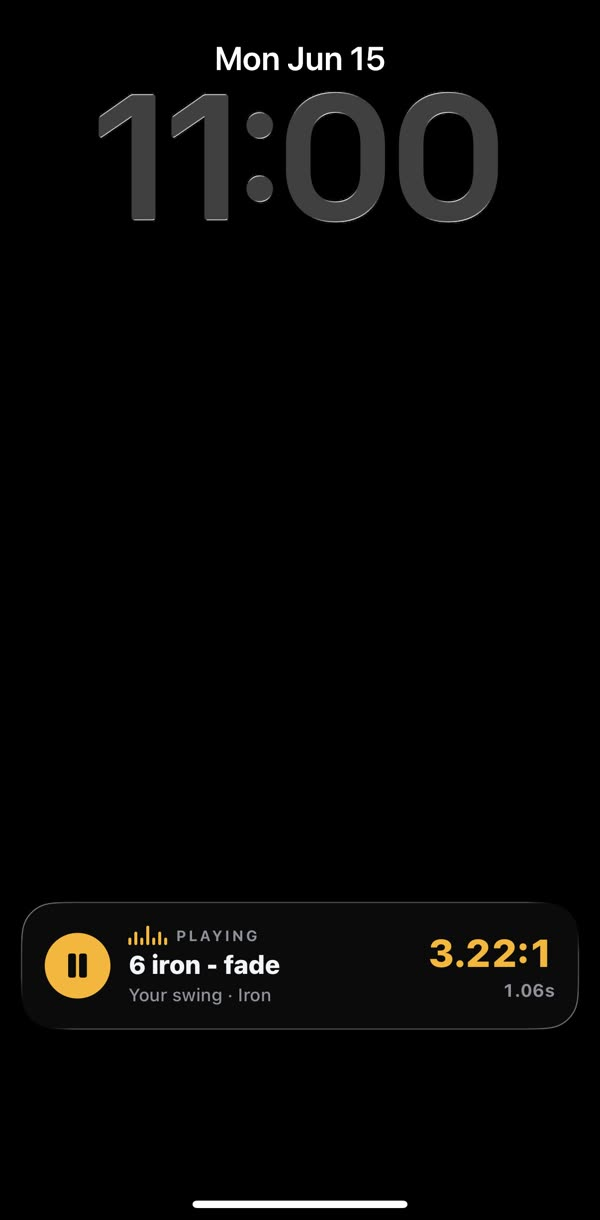
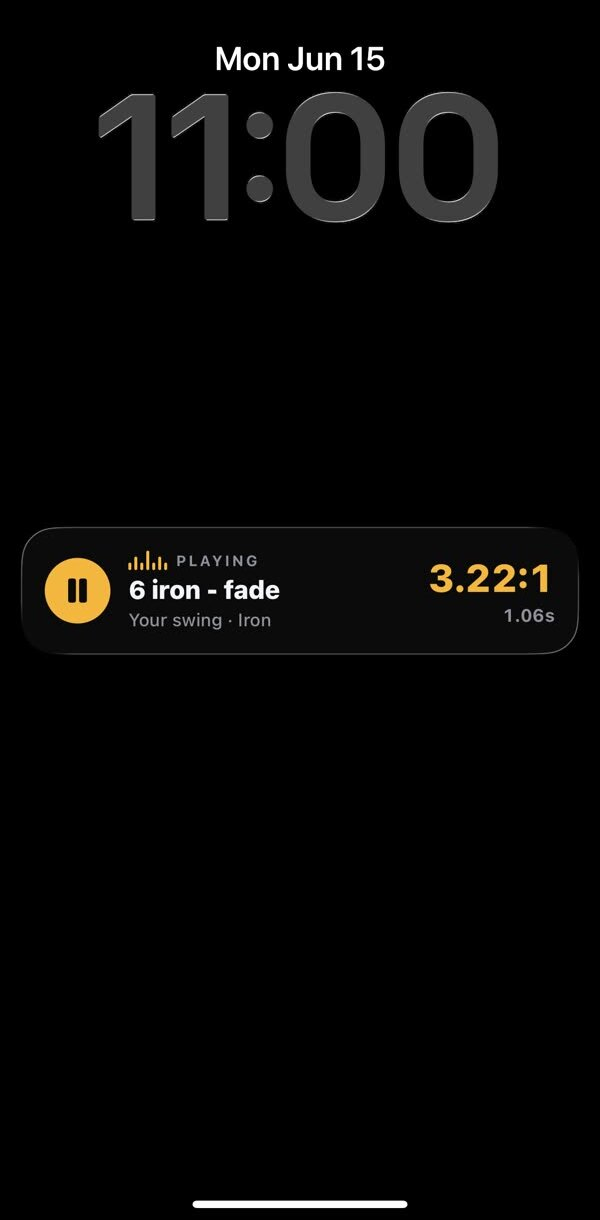
fix(elite-tempo): static CSS sonar rings, widget mid-screen, three-beat hero
- Rebuild sonar rings as pure static CSS (drop framer-motion). The animated
  version failed to paint on mobile Safari with Reduce Motion; rings now render
  on every device as concentric gold circles.
- Move the Live Activity card up to mid-screen in lock-activity.jpg so the buds
  can sit near the middle of the phone instead of the bottom.
- Reposition buds to straddle the centered widget.
- Hero subtext: three-beat "Copy the tempo of the greats. Capture your best
  tempo and routine. Repeat it when it matters most."

diff --git a/app/elite-tempo/BudFlank.tsx b/app/elite-tempo/BudFlank.tsx
@@ -1,19 +1,20 @@
-"use client";
-
-import { motion, useReducedMotion } from "framer-motion";
-
 const ACCENT = "#FFB300";
 
-/* An AirPod flanking the phone in the hands-free section, with gold sonar
-   rings around it — the beat/audio radiating into your ears.
+/* An AirPod flanking the phone in the hands-free section, ringed by static gold
+   sonar rings — the beat radiating into your ears (Ladder-style).
 
-   topPct positions the bud's vertical center as a % of the phone height (so it
-   tracks across breakpoints); the two buds straddle the Live Activity card.
+   Pure CSS: the rings are plain <span> circles with fixed radii and opacity, so
+   they render on every device including mobile Safari with Reduce Motion on (an
+   earlier framer-motion version failed to paint there).
 
-   Rings: when motion is allowed they expand outward and fade (sound leaving the
-   bud). With Reduce Motion on, they DON'T collapse to nothing — each freezes at
-   a distinct radius, so they read as static concentric rings (Ladder-style) and
-   still render on phones with Reduce Motion enabled. */
+   topPct positions the bud's vertical center as a % of the phone height so the
+   two buds straddle the Live Activity card across breakpoints. */
+const RINGS = [
+  { size: 56, opacity: 0.6 },
+  { size: 90, opacity: 0.36 },
+  { size: 126, opacity: 0.18 },
+];
+
 export default function BudFlank({
   src,
   side,
@@ -23,10 +24,7 @@ export default function BudFlank({
   side: "left" | "right";
   topPct?: number;
 }) {
-  const reduce = useReducedMotion();
   const isLeft = side === "left";
-  const rings = [0, 1, 2, 3];
-
   return (
     <div
       className={`pointer-events-none absolute z-10 -translate-y-1/2 ${
@@ -36,37 +34,27 @@ export default function BudFlank({
       aria-hidden
     >
       <div className="relative grid place-items-center">
-        {/* Sonar rings — expanding when motion is on, static concentric when off */}
-        {rings.map((i) => (
-          <motion.span
+        {/* Concentric gold sonar rings */}
+        {RINGS.map((r, i) => (
+          <span
             key={i}
             className="absolute rounded-full"
             style={{
-              width: 52,
-              height: 52,
+              width: r.size,
+              height: r.size,
               border: `2px solid ${ACCENT}`,
-              boxShadow: "0 0 10px rgba(255,179,0,0.45)",
+              opacity: r.opacity,
+              boxShadow: `0 0 12px rgba(255,179,0,${(r.opacity * 0.7).toFixed(2)})`,
             }}
-            initial={false}
-            animate={
-              reduce
-                ? { scale: 0.85 + i * 0.5, opacity: 0.55 - i * 0.12 }
-                : { scale: [0.5, 2.4], opacity: [0.85, 0] }
-            }
-            transition={
-              reduce
-                ? { duration: 0 }
-                : { duration: 3.2, repeat: Infinity, ease: "easeOut", delay: i * 0.8 }
-            }
           />
         ))}
-        {/* Soft static gold core glow under the bud */}
+        {/* Soft gold core glow under the bud */}
         <span
           className="absolute rounded-full"
           style={{
-            width: 84,
-            height: 84,
-            background: "radial-gradient(circle, rgba(255,179,0,0.30), transparent 68%)",
+            width: 86,
+            height: 86,
+            background: "radial-gradient(circle, rgba(255,179,0,0.3), transparent 68%)",
             filter: "blur(3px)",
           }}
         />

diff --git a/app/elite-tempo/page.tsx b/app/elite-tempo/page.tsx
@@ -79,8 +79,8 @@ export default function EliteTempoLanding() {
                 <span style={{ color: ACCENT }}>Copy your best.</span>
               </h1>
               <p className="mt-5 max-w-md text-base leading-relaxed" style={{ color: MUTED }}>
-                Feel what it&apos;s like to swing like the greats, then bring your
-                range game to the course when it matters most.
+                Copy the tempo of the greats. Capture your best tempo and
+                routine. Repeat it when it matters most.
               </p>
               <div className="mt-8 flex flex-wrap items-center gap-4">
                 <AppStoreButton />
@@ -270,10 +270,10 @@ export default function EliteTempoLanding() {
             <div className="relative mx-auto w-fit px-8 sm:px-14">
               <DeviceFrame img="/elite-tempo/lock-activity.jpg" notch={false} max={300} topFade />
 
-              {/* Buds straddle the Live Activity card (~78% down): left rides just
-                  above it, right just below, so the widget sits between them. */}
-              <BudFlank src="/elite-tempo/airpod-left.png" side="left" topPct={70} />
-              <BudFlank src="/elite-tempo/airpod-right.png" side="right" topPct={86} />
+              {/* Widget now sits mid-screen; buds straddle it near the middle —
+                  left just above, right just below. */}
+              <BudFlank src="/elite-tempo/airpod-left.png" side="left" topPct={43} />
+              <BudFlank src="/elite-tempo/airpod-right.png" side="right" topPct={57} />
             </div>
           </Reveal>
         </div>